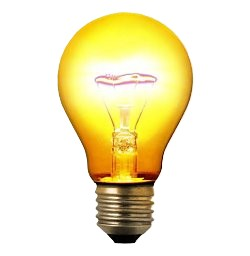
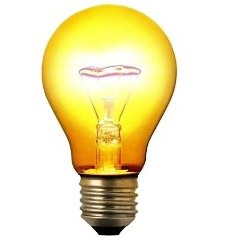
modify switch

Changed region(s): [[0.1549, 0.0, 0.8053, 1.0], [0.5265, 0.384, 0.5575, 0.4135]]

diff --git a/script.js b/script.js
@@ -7,10 +7,19 @@ show1[0].innerHTML = "The first paragraph (index 0) inside 'main' is: " + y[0].i
 
 
 let light = document.getElementById("im");
+const onc = document.getElementById("on");
+const offc = document.getElementById("off");
 
 function turnOn(){
     light.src = "on.jpg";
+    onc.style.display="none";
+    offc.style.display="block";
+    // light.style.height="300px";
 }
 function turnOff() {
     light.src = "off.png";
+    offc.style.display="none";
+    onc.style.display="block";
+    
+    
 }

diff --git a/index.html b/index.html
@@ -14,7 +14,7 @@
     <p id = "demo"></p>
     <p class = "demo1"></p>
     <img id="im" src="off.png" alt="off">
-    <button onclick = "turnOn()" id="btn">on</button>
+    <button onclick = "turnOn()" id="on">on</button>
     <button onclick = "turnOff()" id="off">off</button>
     
 </body>

diff --git a/style.css b/style.css
@@ -15,3 +15,18 @@ button:active{
     background-color: aqua;
 
 }
+#off{
+    /* display:none; */
+    position: fixed;
+    left: 300px;
+    top: 300px;
+}
+#on{
+    position: fixed;
+    left: 300px;
+    top: 300px;
+}
+img{
+    height: 300px;
+    width: 300px;
+}
